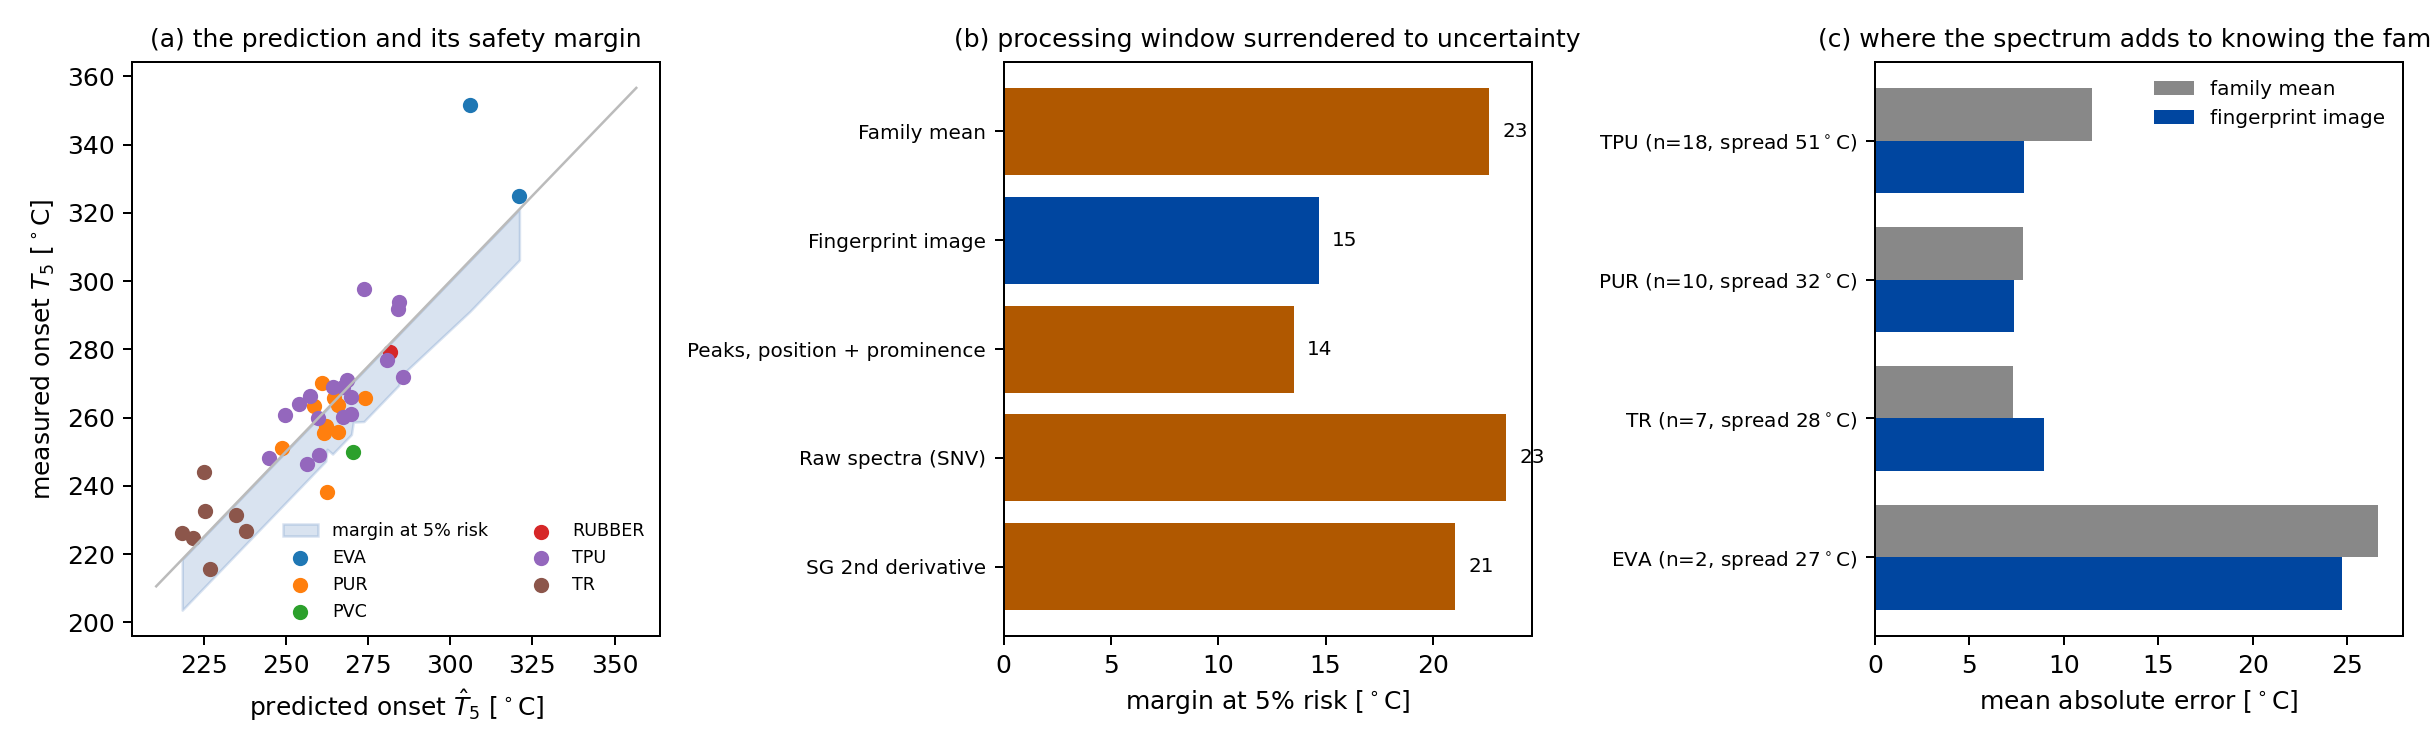
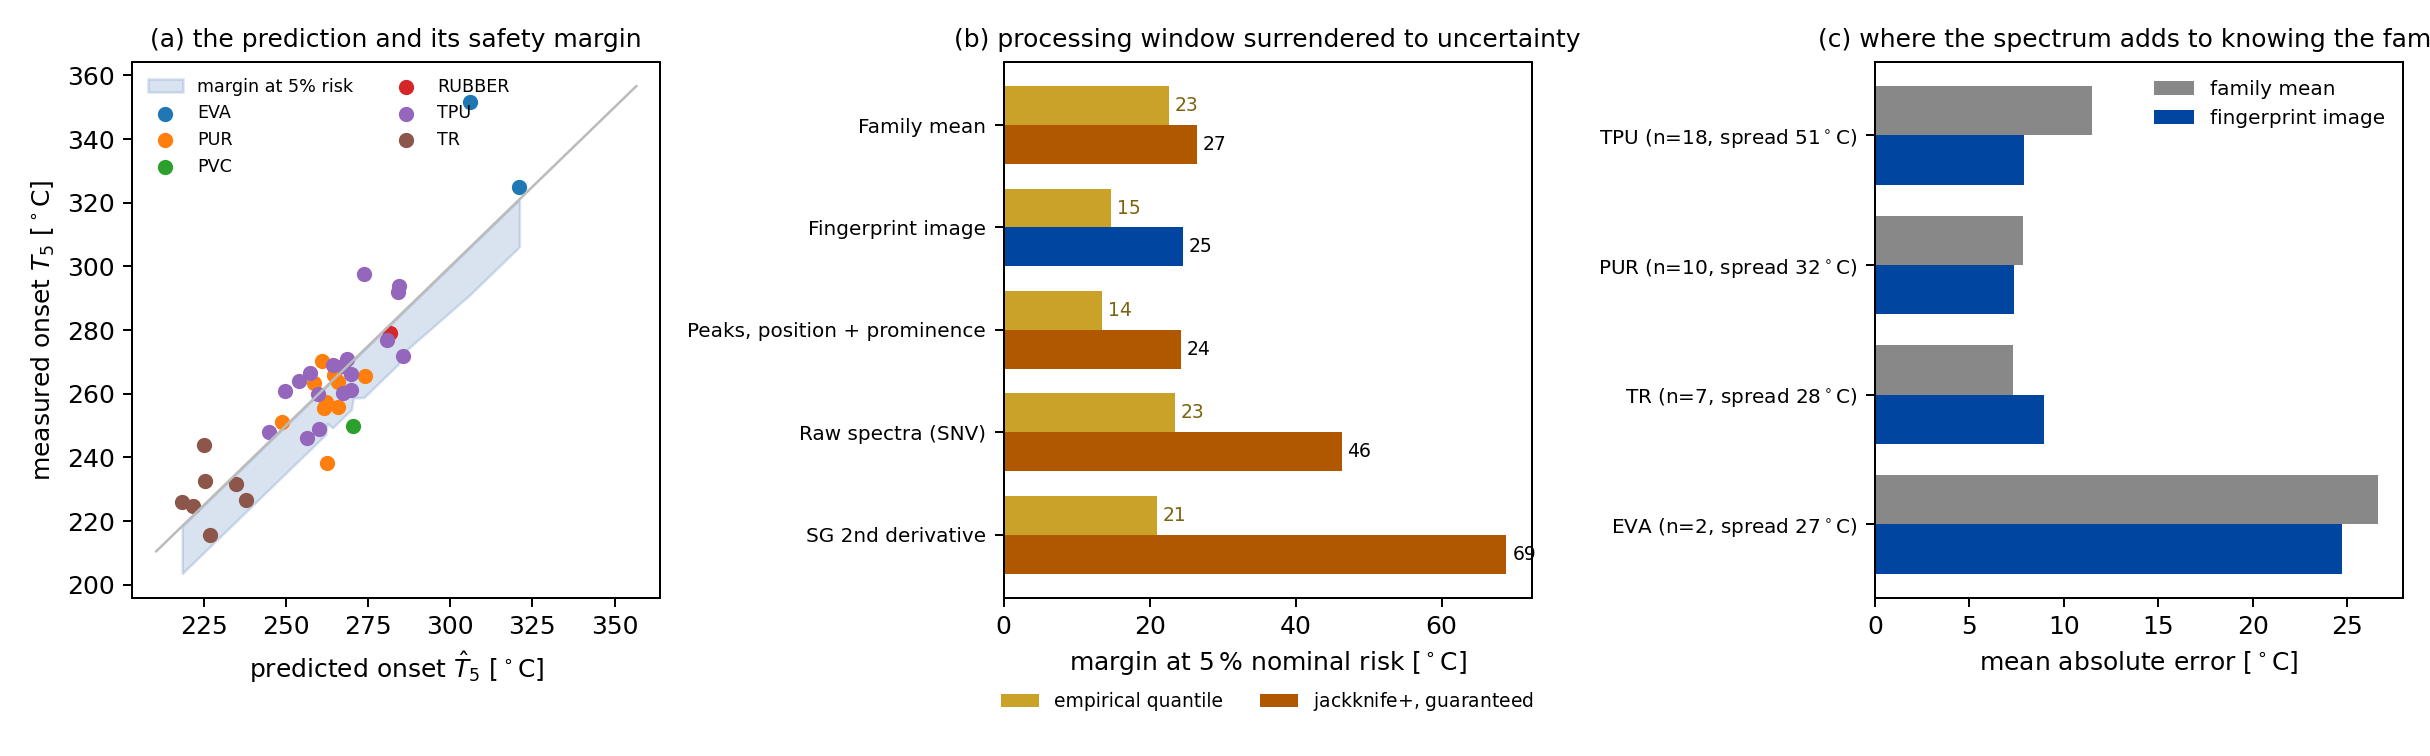
Replace the safety margin with one that carries a guarantee
The moulding rule of the previous commit sets the admissible process
temperature at the predicted onset less a margin taken as an empirical quantile
of the leave-one-out residual. Checked against its own specification, that
margin is optimistic: asked for a 5% risk of over-heating it delivers 7.7%, and
asked for 1% it delivers 5.1%. With 39 compounds the tail is estimated from two
or three points.

scripts/12_conformal_margin.py replaces it with the one-sided jackknife+ bound
of Barber, Candes, Ramdas and Tibshirani (2021), which guarantees
P(T5 > L(x)) >= 1 - 2 alpha in finite samples with no assumption on the residual
distribution or on the regression method. Evaluating that guarantee honestly
needs a second layer of resampling, since the bound for a compound must be built
without it; for ridge the 39 x 38 fits cost seconds. The realised risk falls to
2.6%, one compound of 39, for every representation.

The margins grow and the gap narrows. At 5% nominal risk: 24.6 C for the
fingerprint image and 24.3 C for a peak table with prominence, against 26.5 C
for the family mean, 46.3 C for the raw spectra and 68.9 C for the
second-derivative chain. A paired bootstrap puts the margin returned over the
family mean at 1.96 C, [1.08, 2.86], above zero in every resample. Two degrees,
certified, rather than the eight the uncalibrated rule suggested.

Two further results. The second-derivative chain has the second best mean
[…]

diff --git a/scripts/12_conformal_margin.py b/scripts/12_conformal_margin.py
@@ -1,0 +1,233 @@
+#!/usr/bin/env python3
+"""Step 12 -- a safety margin with a finite-sample guarantee.
+
+The moulding rule of step 11 sets the admissible process temperature at the
+predicted onset less a margin taken as an empirical quantile of the
+leave-one-out residual. With 39 compounds that quantile is estimated from two or
+three points in the tail, and it is optimistic: asked for a 5% risk of
+over-heating it delivers 7.7%, and asked for 1% it delivers 5.1%. A rule that
+does not keep its promise is worse than no rule.
+
+The jackknife+ of Barber, Candes, Ramdas and Tibshirani (2021) replaces the
+quantile with a construction that has a coverage guarantee in finite samples,
+with no assumption on the distribution of the residuals and none on the
+regression method. For a one-sided lower bound on a new compound's onset,
+
+    L(x) = the floor(alpha (n+1))-th smallest of { mu_{-i}(x) + R_i },
+
+with R_i the signed leave-one-out residual, and the guarantee is
+
+    P(T5 > L(x)) >= 1 - 2 alpha.
+
+The factor of two is the price of the construction and is stated rather than
+hidden: a rule that must over-heat at most 5% of compounds is obtained by
+setting alpha = 0.025.
+
+Evaluating the guarantee honestly needs a second layer of resampling. The bound
+for compound i must be built without i, so the residuals entering it are
+themselves computed on the remaining 38 compounds, leaving out one more at a
+time: 39 x 38 fits, which for ridge costs seconds.
+
+Also reported: a paired bootstrap on the difference in margin between each
+representation and the family mean, since the eight degrees claimed in step 11
+carried no uncertainty; and a permutation test of the onset prediction itself.
+
+One thing the data cannot do is worth recording here rather than in a footnote.
+The bound needs the floor(alpha (m+1))-th order statistic of m = n - 1 = 38
+candidates; at alpha = 0.025 that index is zero, so no such order statistic
+exists and the bound degenerates to the smallest candidate. A distribution-free
+5% guarantee needs alpha >= 1/39, that is a nominal risk of 5.1%: this data set
+is one compound short of certifying the number step 11 quotes.
+
+Writes:
+    results/conformal_margin.csv
+    results/conformal_bootstrap.csv
+    results/conformal_permutation.csv
+"""
+
+from __future__ import annotations
+
+import argparse
+import sys
+from pathlib import Path
+
+import numpy as np  # noqa: E402
+import pandas as pd  # noqa: E402
+from sklearn.linear_model import RidgeCV  # noqa: E402
+from sklearn.pipeline import make_pipeline  # noqa: E402
+
+ROOT = Path(__file__).resolve().parents[1]
+sys.path.insert(0, str(ROOT / "src"))
+sys.path.insert(0, str(ROOT / "scripts"))
+
+_reg = __import__("07_property_regression")
+_window = __import__("11_moulding_window")
+
+PROCESSED = ROOT / "data" / "processed"
+RESULTS = ROOT / "results"
+
+ALPHAS = (0.025, 0.005)          # jackknife+ guarantees 1 - 2 alpha
+ALPHA_LABEL = {0.025: "5", 0.005: "1"}
+ALPHAS_RIDGE = np.logspace(-2, 6, 40)
+
+
+def parse_args() -> argparse.Namespace:
+    p = argparse.ArgumentParser(description=__doc__)
+    p.add_argument("--seed", type=int, default=0)
+    p.add_argument("--boot", type=int, default=5000)
+    p.add_argument("--permutations", type=int, default=1000)
+    return p.parse_args()
+
+
+# ---------------------------------------------------------------------------
+# Predictors, written so that the conformal loops can call them cheaply
+# ---------------------------------------------------------------------------
+def ridge_predictor(X):
+    """A predictor closing over the features only; the target is an argument.
+
+    Keeping the target out of the closure is what lets the permutation test of
+    part C refit the model on a shuffled target rather than silently reusing the
+    original one.
+    """
+    def predict(y, train, at):
+        model = make_pipeline(_reg._prune(), _reg._scaler(),
+                              RidgeCV(alphas=ALPHAS_RIDGE))
+        model.fit(X[train], y[train])
+        return model.predict(X[at]).ravel()
+    return predict
+
+
+def family_predictor(families):
+    def predict(y, train, at):
+        out = np.empty(len(at))
+        for k, index in enumerate(at):
+            same = train[families[train] == families[index]]
+            out[k] = y[same].mean() if same.size else y[train].mean()
+        return out
+    return predict
+
+
+def loo_predictions(predict, y) -> np.ndarray:
+    n = len(y)
+    return np.array([predict(y, np.setdiff1d(np.arange(n), [i]), np.array([i]))[0]
+                     for i in range(n)])
+
+
+def jackknife_plus_bound(predict, y, held_out: int, alpha: float) -> float:
+    """One-sided jackknife+ lower bound for the compound ``held_out``.
+
+    Built entirely from the other ``n - 1`` compounds: for each of them a model
+    is fitted on the remaining ``n - 2``, giving both a residual at that
+    compound and a prediction at the held-out one.
+    """
+    n = len(y)
+    others = np.setdiff1d(np.arange(n), [held_out])
+    candidates = np.empty(len(others))
+    for k, j in enumerate(others):
+        train = np.setdiff1d(others, [j])
+        prediction = predict(y, train, np.array([j, held_out]))
+        residual = y[j] - prediction[0]
+        candidates[k] = prediction[1] + residual
+    m = len(candidates)
+    rank = int(np.floor(alpha * (m + 1)))
+    if rank < 1:                       # too few compounds for this alpha
+        return float(np.min(candidates))
+    return float(np.sort(candidates)[rank - 1])
+
+
+def main() -> None:
+    args = parse_args()
+    RESULTS.mkdir(parents=True, exist_ok=True)
+
+    labels = pd.read_csv(PROCESSED / "labels.csv")
+    targets = pd.read_csv(PROCESSED / "targets.csv")
+    data = np.load(PROCESSED / "spectra.npz", allow_pickle=True)
+    wavenumber, raw = data["wavenumber"], data["intensity"]
+    families = labels["family"].to_numpy()
+    y = targets["T5"].to_numpy(dtype=float)
+    n = len(y)
+
+    predictors = {"Family mean": family_predictor(families)}
+    for name, X in _window.build_representations(raw, wavenumber).items():
+        predictors[name] = ridge_predictor(X)
+
+    # -- A. the two margins, and whether they keep their promise -------------
+    rows = []
+    bounds: dict[tuple[str, float], np.ndarray] = {}
+    for name, predict in predictors.items():
+        loo = loo_predictions(predict, y)
+        residual = y - loo
+        for alpha in ALPHAS:
+            nominal = 2 * alpha
+            naive = loo + _window.nested_margin(residual, nominal)
+            conformal = np.array([jackknife_plus_bound(predict, y, i, alpha)
+                                  for i in range(n)])
+            bounds[(name, alpha)] = conformal
+            rows.append(dict(
+                representation=name, nominal_risk=nominal,
+                naive_margin=float(np.mean(loo - naive)),
+                naive_overheated=float((y < naive).mean()),
+                conformal_margin=float(np.mean(loo - conformal)),
+                conformal_overheated=float((y < conformal).mean())))
+        print(f"  {name:30s} done")
+    margin = pd.DataFrame(rows)
+    margin.to_csv(RESULTS / "conformal_margin.csv", index=False)
+
+    print("\nA. margin and realised risk, empirical quantile against jackknife+")
+    show = margin.copy()
+    show["nominal"] = (100 * show.nominal_risk).round(0).astype(int).astype(str) + "%"
+    print(show[["representation", "nominal", "naive_margin", "naive_overheated",
+                "conformal_margin", "conformal_overheated"]].to_string(
+        index=False, float_format=lambda v: f"{v:.3f}"))
+
+    # -- B. is the gain over the family mean real? --------------------------
+    rng = np.random.default_rng(args.seed)
+    reference = bounds[("Family mean", 0.025)]
+    reference_loo = loo_predictions(predictors["Family mean"], y)
+    rows = []
+    for name, predict in predictors.items():
+        if name == "Family mean":
+            continue
+        loo = loo_predictions(predict, y)
+        gain = (reference_loo - reference) - (loo - bounds[(name, 0.025)])
+        deltas = np.array([gain[rng.integers(0, n, n)].mean()
+                           for _ in range(args.boot)])
+        rows.append(dict(representation=name, gain=float(gain.mean()),
+                         lo=float(np.percentile(deltas, 2.5)),
+                         hi=float(np.percentile(deltas, 97.5)),
+                         p_above_zero=float((deltas > 0).mean())))
+    bootstrap = pd.DataFrame(rows)
+    bootstrap.to_csv(RESULTS / "conformal_bootstrap.csv", index=False)
+    print("\nB. margin returned against the family mean, at 5% risk "
+          "(paired bootstrap)")
+    print(bootstrap.to_string(index=False, float_format=lambda v: f"{v:.3f}"))
+
+    print(f"\nC. permutation test of the onset prediction, "
+          f"{args.permutations} permutations")
+    # -- C. is the prediction better than chance? ---------------------------
+    rows = []
+    for name, predict in predictors.items():
+        if name == "Family mean":
+            continue
+        observed = _reg.scores(y, loo_predictions(predict, y))["Q2"]
+        null = np.empty(args.permutations)
+        for b in range(args.permutations):
+            shuffled = rng.permutation(y)
+            null[b] = _reg.scores(shuffled, loo_predictions(predict, shuffled))["Q2"]
+        # The p-value counts the permutation itself, which keeps it valid at
+        # any number of permutations rather than only asymptotically.
+        p_value = float((1 + (null >= observed).sum()) / (1 + args.permutations))
+        rows.append(dict(representation=name, Q2=observed,
+                         null_mean=float(null.mean()),
+                         null_q95=float(np.percentile(null, 95)),
+                         p_value=p_value))
+        print(f"  {name:30s} Q2={observed:.3f}  null 95th pct={np.percentile(null, 95):.3f}"
+              f"  p={p_value:.4f}")
+    permutation = pd.DataFrame(rows)
+    permutation.to_csv(RESULTS / "conformal_permutation.csv", index=False)
+
+    print(f"\nwritten to {RESULTS}")
+
+
+if __name__ == "__main__":
+    main()

diff --git a/scripts/11_moulding_window.py b/scripts/11_moulding_window.py
@@ -219,16 +219,35 @@ def main() -> None:
     ax.legend(fontsize=7, frameon=False, ncol=2)
 
     ax = axes[1]
+    # Both constructions, since the empirical quantile does not deliver its
+    # nominal risk and the comparison between them is the point.
+    conformal_path = RESULTS / "conformal_margin.csv"
     names = list(margins.representation)
-    ax.barh(np.arange(len(names)), margins.margin_5,
-            color=["#0046a0" if n == "Fingerprint image" else "#b05800"
-                   for n in names])
+    y_pos = np.arange(len(names))
+    height = 0.38
+    ax.barh(y_pos - height / 2, margins.margin_5, height=height,
+            color="#c9a227", label="empirical quantile")
+    if conformal_path.exists():
+        conformal = (pd.read_csv(conformal_path)
+                     .query("nominal_risk == 0.05")
+                     .set_index("representation")
+                     .reindex(names))
+        ax.barh(y_pos + height / 2, conformal.conformal_margin, height=height,
+                color=["#0046a0" if n == "Fingerprint image" else "#b05800"
+                       for n in names],
+                label=r"jackknife$+$, guaranteed")
+        for i, value in enumerate(conformal.conformal_margin):
+            ax.text(value + 0.8, i + height / 2, f"{value:.0f}", va="center",
+                    fontsize=7.5)
     for i, value in enumerate(margins.margin_5):
-        ax.text(value + 0.6, i, f"{value:.0f}", va="center", fontsize=8)
-    ax.set_yticks(range(len(names)), names, fontsize=8)
+        ax.text(value + 0.8, i - height / 2, f"{value:.0f}", va="center",
+                fontsize=7.5, color="#7a6410")
+    ax.set_yticks(y_pos, names, fontsize=8)
     ax.invert_yaxis()
-    ax.set_xlabel(r"margin at 5% risk [$^\circ$C]")
+    ax.set_xlabel(r"margin at $5\,\%$ nominal risk [$^\circ$C]")
     ax.set_title("(b) processing window surrendered to uncertainty", fontsize=10)
+    ax.legend(fontsize=7.5, frameon=False, loc="upper center",
+              bbox_to_anchor=(0.5, -0.14), ncol=2)
 
     ax = axes[2]
     width = 0.38
